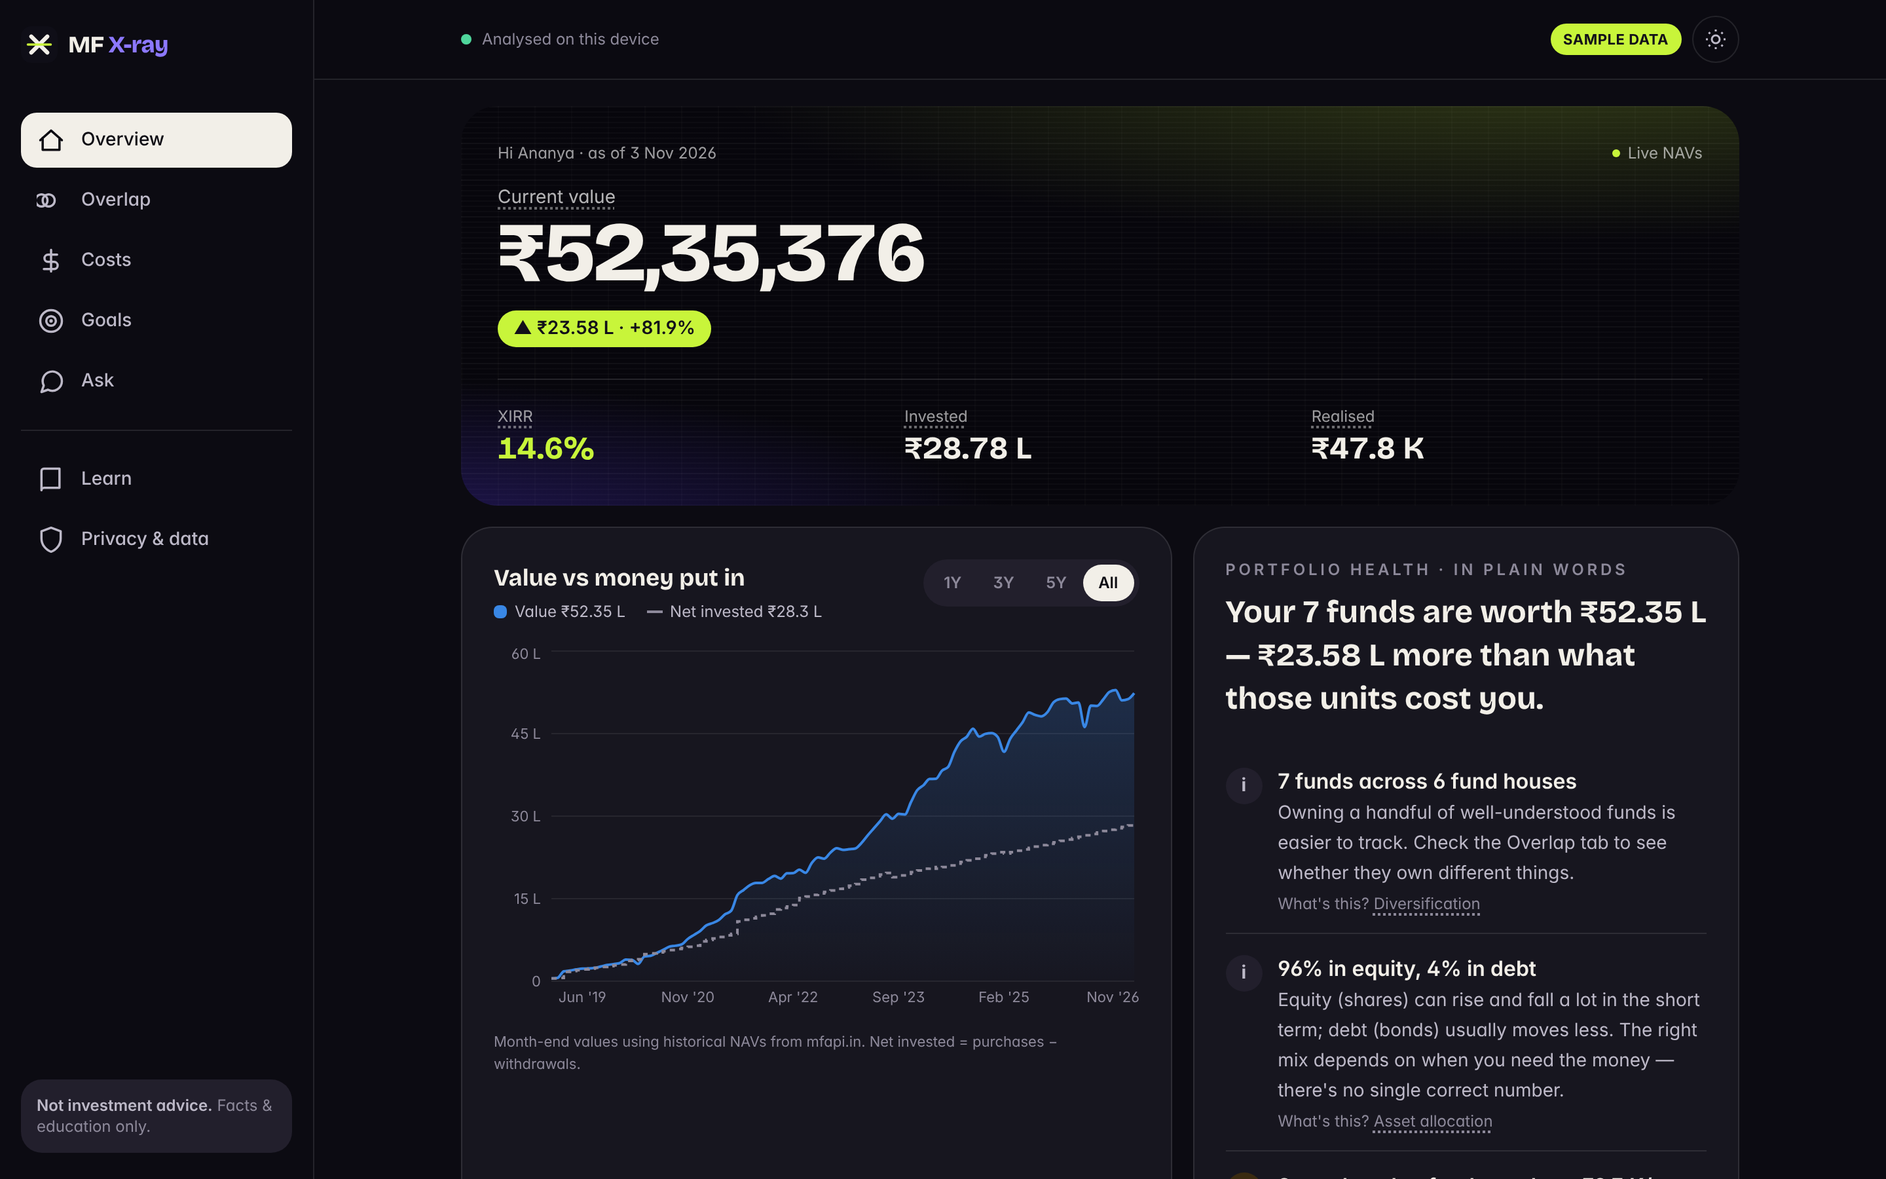
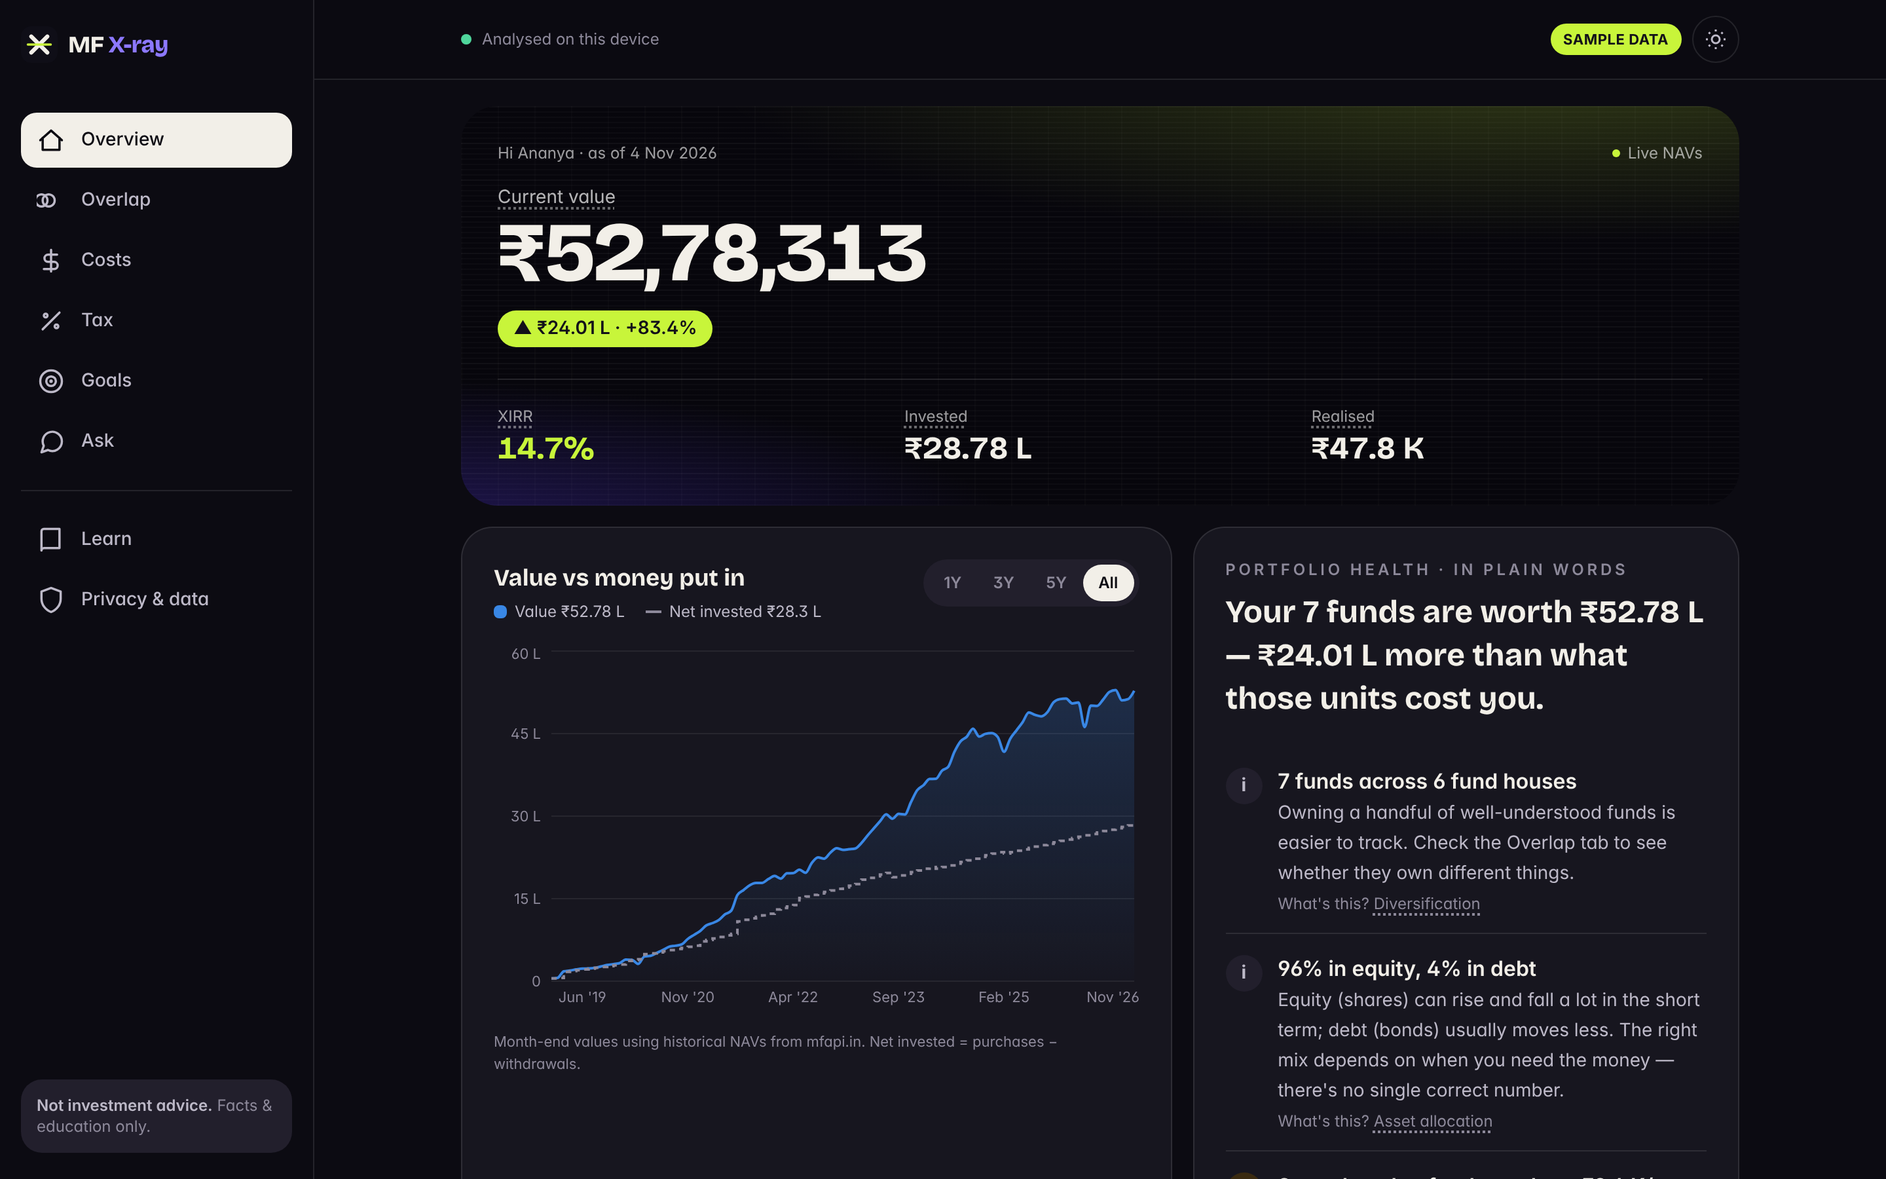
Update docs and screenshots for overlap, tax, parser and sharing work

diff --git a/developer.md b/developer.md
@@ -42,7 +42,13 @@ Sandbox-only: Node's `fetch` ignores `HTTPS_PROXY` by default. In environments t
 | `npm run sample:generate` | Regenerates `public/sample/sample-cas.pdf` + `tests/fixtures/sample-cas.expected.json` (needs network for mfapi.in NAVs; caches them in `scripts/.nav-cache.json`, git-ignored) |
 | `npm run data:schemes` | Rebuilds `public/data/schemes.json` from AMFI's NAVAll.txt (ISIN → AMFI code, category, AMC) |
 | `npm run data:ter` | Rebuilds `public/data/ter.json` from AMFI's TER disclosure API (last month + current month; ~30 min because the API is paginated daily rows) |
+| `npm run data:holdings` | Discovers + downloads AMC monthly portfolio disclosures and rebuilds `public/data/holdings.json` (needs Playwright + Chromium; ~10 min). Downloads cached in `scripts/.holdings-cache/` (git-ignored) |
+| `npm run data:holdings:offline` | Rebuilds the holdings snapshot from the local download cache only |
 | `node scripts/render-icons.cjs` | Renders PWA PNG icons with Playwright |
+
+**Monthly refresh:** `.github/workflows/refresh-data.yml` runs on the 12th of each month (and on demand). It rebuilds
+the scheme master, holdings snapshot and TER, runs the tests, and opens a PR on `data/monthly-refresh`. It needs
+Actions to be allowed to create PRs (Settings → Actions → General → "Allow GitHub Actions to create and approve pull requests").
 
 ## Architecture
 
@@ -60,16 +66,22 @@ src/
     finance/              xirr, portfolio (FIFO cost, XIRR, allocation), costs, goals, timeline, categorize
     data/                 schemeIndex (AMFI master), ter (AMFI TER + estimates), nav (mfapi.in)
     ai/                   anonymize (the only thing that leaves the device), prompt, providers, localAnswer
-    overlap.ts            pairwise overlap + look-through exposure
+    cas/diagnostic.ts     redaction + anonymised "didn't parse right?" report
+    finance/lots.ts       FIFO lot engine (acquisition dates, disposals, merger carry-over)
+    finance/capitalGains.ts  STCG/LTCG estimate (rules table, grandfathering, FY summary)
+    holdings/             snapshot types + lookup (by plan ISIN, then name key)
+    overlap.ts            pairwise overlap, verdicts, look-through stocks + sectors (ISIN-keyed)
+    shareCard.ts          anonymised share-card data + canvas drawing
     health.ts             plain-language facts
     glossary.ts, learn.ts beginner content
-  data/holdings.json      approximate top-holdings snapshot (see Decisions)
+  data/holdings-fallback.json  approximate top-holdings list, used only when no disclosure covers a fund
   store/store.ts          zustand store, optional localStorage persistence
 public/
-  data/schemes.json, ter.json   bundled public data snapshots
+  data/schemes.json, ter.json, holdings.json   bundled public data snapshots
   sample/sample-cas.pdf         synthetic CAS (password: mfxray)
   sw.js                          service worker (offline shell + cached NAVs)
 scripts/                         data/sample/icon generators
+  holdings/                      AMC disclosure ingestion: sources.ts (per-AMC discovery), parse-disclosure.ts (generic SEBI-format parser), build-snapshot.ts, ingest.ts
 tests/                           vitest
 ```
 
@@ -106,7 +118,8 @@ follow the entity, not its rank.
 - **Current value** uses the latest NAV from mfapi.in when newer than the statement; otherwise the statement's NAV. The UI shows which.
 - **Scheme master**: AMFI NAVAll.txt snapshot bundled (`public/data/schemes.json`, ~190 KB gz, lazy-loaded) for ISIN → AMFI code/category/AMC and to find each regular plan's direct twin.
 - **Expense ratios**: real per-scheme regular/direct TERs from AMFI's public TER disclosure API, bundled as a snapshot. Category-median estimates are used only when a scheme is missing, and are labelled “est”.
-- **Fund holdings for overlap**: no free, common API exists for AMC monthly portfolio disclosures (each AMC publishes its own Excel/PDF in different formats). v1 ships a hand-compiled, **approximate top-holdings snapshot** for ~20 popular funds plus approximate NIFTY 50 / SENSEX / NIFTY NEXT 50 weights for index funds, clearly labelled in the UI as not live. Funds without data fall back to a same-category note. See Roadmap.
+- **Fund holdings for overlap (v2)**: ingested from AMC **monthly portfolio disclosures** (the Excel files SEBI requires each AMC to publish). One generic parser handles every AMC because SEBI prescribes the columns: it finds the header row (ISIN + "% to NAV/Net Assets"), tracks equity/foreign/debt/derivative sections, auto-detects fraction vs percent weights, sums duplicate lines and uses the ISIN security-type code (positions 8–9: `01` = equity share) to separate shares from bonds. Derivative legs are excluded so hedged positions aren't double counted. Stock identity = ISIN. Snapshot (Sep 2026): **395 schemes from 9 AMCs** — SBI, Nippon India, Aditya Birla Sun Life, Mirae Asset, DSP, Tata, PPFAS, Motilal Oswal, Invesco — with 390 mapped to AMFI plan ISINs (≈108 KB gzipped, lazy-loaded). Arbitrage funds and schemes with < 35% equity are excluded. Lookup order: user's plan ISIN → name key → **index proxy** (an index fund whose AMC isn't covered borrows the disclosed portfolio of a sibling fund tracking the same index) → **approximate** hand-compiled top holdings (names mapped onto ISINs where possible). The UI always shows the source and month per fund.
+- **Overlap verdicts**: Σ min(weightA, weightB) over common ISINs; ≥60% "nearly the same portfolio", ≥35% "a large shared core", ≥15% "some shared stocks", else "very different".
 - **Regular-plan money lost (past)**: replays the user's actual purchase dates/amounts on the direct plan's real NAV history (mfapi.in) and compares today's values; falls back to average balance × TER gap × years when history is unavailable (labelled estimate).
 - **Benchmark reference**: the dashboard replays the user's exact cash flows on UTI Nifty 50 Index Fund (direct) historical NAVs and shows value + XIRR side by side. Framed as a past-only yardstick, not a recommendation.
 - **Projections** (fee drag, goals) use a growth rate the **user chooses** (slider), always labelled “your assumption, not a prediction”. Goals default to 0%; the cost slider defaults to 10% (editable).
@@ -116,13 +129,22 @@ follow the entity, not its rank.
 - **NAV fetching**: browser calls mfapi.in directly (CORS-enabled). Some cached responses lack CORS headers, so a stateless same-origin proxy (`/api/nav/[code]`, public scheme code only) is used as fallback.
 - **Sample data**: fully synthetic investor (“Ananya Rao”, PAN `ABCDE1234F`, fake folios, fake ARN-000000, example.com email) holding 8 real schemes with real ISINs and real historical NAVs, so live features work. Password `mfxray`. ~700 transactions, SIPs, lump sums, stamp duty, STT, partial and full redemptions, two regular plans.
 - **PWA**: hand-written service worker (no plugin) — offline app shell, cache-first for static assets and bundled data, network-first with cache fallback for NAVs. Only registered in production.
+- **Parser robustness (v2)**: classification order fixed so SWP → redemption, STP → switch, mergers → `MERGER_IN/OUT` (non-cash; cost basis and acquisition dates carried across schemes in the same folio), bonus → zero-cost lot, segregated/side-pocket → zero-cost lot, purchase rows with negative units → reversal. Dated lines can never become scheme headers. Missing valuation lines fall back to the last transaction NAV with a warning. Fixtures in `tests/fixtures/cas/` (CAMS-style edge cases, KFintech-style tab-less layout with a merger, noisy page headers/footers).
+- **Diagnostic report**: raw statement text is never retained. Right after extraction the lines are redacted (personal block, PAN, e-mail, phone, folio, nominee, all digits → 9, dates → 99-Mmm-9999) and only that form is kept in memory (not persisted). Fund names are masked unless the user opts in. The user copies/downloads it; nothing is sent. A leak check warns if the (editable) text still looks like it contains an identifier.
+- **Capital gains**: FIFO lots; rules table in `capitalGains.ts` (`RULES`). Equity-oriented (incl. index, ELSS, arbitrage, aggressive hybrid, balanced advantage, equity savings): LT > 12 months, 12.5% above ₹1.25 L/FY, ST 20%. Debt acquired ≥ 1 Apr 2023: slab. Debt acquired earlier, gold/silver, international FoFs, 35–65% equity hybrids: LT > 24 months at 12.5%, else slab. Grandfathering for equity lots ≤ 31 Jan 2018 using the 31-Jan-2018 NAV from mfapi.in. 4% cess included; surcharge and cross-bucket set-off not modelled. Tax estimates are shown only for FYs fully under the post-23-Jul-2024 rules. Rules verified 5 Nov 2026: Budget 2026 left MF capital-gains rates unchanged; the Income-tax Act, 2025 (from 1 Apr 2026) renumbered sections without changing rates. Slab rate is user-chosen (default 30%).
+- **Share card**: percentages only by default (value is opt-in, XIRR toggle); drawn on a canvas in the browser; shared via the Web Share API with download fallback.
+- **First-run tour**: 5-step bottom sheet on the first dashboard visit (flag in localStorage), replayable from Learn.
 - **Fonts**: Bricolage Grotesque (display), Instrument Sans (body), JetBrains Mono via `next/font` (self-hosted at build).
 
 ## Blockers & workarounds
 
 | What failed | What I tried | Workaround in v1 | What you need to do |
 |---|---|---|---|
-| Free source for scheme holdings (overlap) | Looked for AMFI/AMC APIs; AMC disclosures are per-AMC Excel files with no common schema | Approximate top-holdings snapshot (`src/data/holdings.json`), labelled in UI; same-category fallback | Optional: build an ingestion job per AMC (see Roadmap) or plug in a licensed data source |
+| AMC disclosures for HDFC, Edelweiss | Direct fetch + headless browser | "Access Denied" (Akamai bot protection). Not bypassed. Their funds use index proxy / approximate fallback, labelled | Optional: download those files manually into `scripts/.holdings-cache/` and add a `Source` entry, or ask the AMC for a feed |
+| ICICI Prudential disclosures | Headless browser | Host unreachable under this build environment's network policy | Try `npm run data:holdings` from a normal machine/CI after adding an ICICI `Source` entry |
+| Kotak disclosures | Their folder-list API (used by captn3m0/mf-portfolio) | Behind Radware bot protection. Not bypassed | Same as above |
+| Axis, UTI, Franklin | Rendered download pages | No month-end portfolio files discoverable automatically (UTI/Franklin publish per fund / via CMS) | Add per-fund URL patterns in `scripts/holdings/sources.ts` |
+| Mirae page lists only 10 latest files | Pagination not exposed | Known scheme codes are probed directly (`probe()`); Mirae Large Cap's code wasn't found, so it uses the approximate fallback | Add its code to the probe list |
 | AMFI TER API is slow (one page ≈ 10 s, 650 pages for a month) | First run hit the 30-min background limit | Script defaults to last month + current month with concurrency 6; current month alone is ~1 min but some AMCs file late | Re-run `npm run data:ter` monthly (or in a scheduled GitHub Action) |
 | mfapi.in sometimes omits CORS headers | — | Same-origin stateless proxy fallback `/api/nav/[code]`; statement NAVs used if both fail | None |
 | Default LLM model names were retired (`gemini-2.5-flash`, `llama-3.3-70b-versatile`) / Gemini daily free quota hit | Listed available models | Defaults: `gemini-flash-lite-latest`, `openai/gpt-oss-120b`; provider fallback chain; offline answers if all fail | Override with `GEMINI_MODEL`/`GROQ_MODEL` if these change |
@@ -132,34 +154,30 @@ follow the entity, not its rank.
 
 - Only CAMS/KFintech **detailed** CAS is supported; NSDL/CDSL CAS and demat-held units aren't parsed.
 - Real-world CAS layouts vary; the parser has been validated against the synthetic sample and hand-written line fixtures, not a corpus of real statements (no real data was used, by design). If a statement fails to reconcile, the UI shows a warning with the scheme name.
-- Holdings snapshot is approximate and limited to ~20 funds; overlap uses top holdings only, so true overlap may be higher.
+- Holdings come from 9 AMCs; funds from other AMCs use an index proxy (index funds) or an approximate top-holdings list (labelled). Disclosures are month-end and published ~10 days later.
+- Per-fund XIRR is unavailable for a scheme created by a merger (its cash flows live in the old scheme); portfolio XIRR is unaffected.
 - TER for a scheme whose AMC hasn't filed in the snapshot months falls back to a category estimate (“est”).
 - Value-over-time chart is month-end; the final point uses the latest NAV.
-- Tax (capital gains, exit loads) is not modelled.
+- Capital-gains view is an estimate: no surcharge, loss set-off/carry-forward, exit loads, demat units outside the CAS, or official tax classification lookup (inferred from category).
 
 ## Progress
 
-**Done**
-- CAS PDF parsing in-browser (password-protected), parser tests on the synthetic sample + text fixtures
-- Portfolio analytics: value, FIFO cost, gains, realised gains, XIRR overall + per fund, allocation (asset class / category / AMC)
-- Live NAV refresh + value-vs-invested chart (mfapi.in, with proxy + statement fallbacks)
-- Overlap matrix, common stocks, look-through exposure (approximate holdings snapshot)
-- Cost check: real AMFI TERs, fee drag 5/10/20 yrs at user assumption, regular-plan detection, past money lost (actual direct NAV replay)
-- Goals with progress rings and user-chosen assumptions; example goals for sample data
-- Beginner layer: tap-to-explain terms everywhere, health summary, learn cards + glossary
-- AI chat (Gemini/Groq with fallback, offline mode), anonymisation + PII tests, “see exactly what is sent”
-- Privacy page with Remember toggle + Delete my data; PWA manifest, icons, service worker
-- Light/dark themes, mobile bottom nav, desktop sidebar
-- Benchmark reference card (same money in a Nifty 50 index fund, historical)
-- CI workflow (typecheck, lint, tests, build)
-- README with real screenshots; developer.md
-- PR opened: https://github.com/SarthakJain29/MF-x-ray/pull/1
+**Done (v1)** — CAS parsing in-browser, dashboard/XIRR/allocation, costs & TER, goals, beginner layer, AI chat with anonymisation, privacy controls, PWA, CI. PR: https://github.com/SarthakJain29/MF-x-ray/pull/1
+
+**Done (v2, this round)**
+- AMC monthly-disclosure ingestion: 9 AMCs, 395 schemes, ISIN-keyed, monthly GitHub Action, "data as of" in UI, labelled fallbacks
+- Overlap hero: biggest-overlap verdict, heat-map with details, real top-10 look-through stocks (fund-coloured), sector exposure, per-fund source badges, dashboard teaser
+- Parser robustness: STP/SWP/merger/bonus/segregation/NFO/reversal/zero-balance/multi-PAN/KFintech fixtures; shared FIFO lot engine
+- "Statement didn't parse right?" anonymised diagnostic report (redaction tested against sample + fixtures)
+- Capital gains estimate page (/app/tax) with rules, grandfathering, FY summary, upcoming long-term dates, IDCW income
+- Share card image, first-run tour, error/404/empty states
+- Tests: 99 (vitest)
 
 **In progress**
-- Nothing in flight. `public/data/ter.json` holds Oct + Nov 2026 AMFI TERs (2,178 schemes); `schemes.json` is from 4 Nov 2026.
+- Nothing in flight.
 
 **Next**
-- Automated AMC holdings ingestion (top AMCs' monthly Excel) to replace the snapshot
+- More AMCs (HDFC/ICICI/Kotak/Axis/UTI via manual or partner feeds); Mirae Large Cap code
 - NSDL/CDSL CAS support
-- Capital-gains view (STCG/LTCG with grandfathering)
-- Scheduled GitHub Action to refresh `schemes.json` / `ter.json` monthly
+- Capital-gains: loss set-off across buckets, exit loads
+- Automated visual regression screenshots in CI

diff --git a/README.md b/README.md
@@ -15,8 +15,9 @@ overlapping funds and goal progress — explained in plain language, computed en
   <img src="docs/screenshots/mobile-dashboard.png" width="23%" alt="Dashboard" />
   <img src="docs/screenshots/mobile-overlap.png" width="23%" alt="Fund overlap" />
   <img src="docs/screenshots/mobile-costs.png" width="23%" alt="Cost check" />
-  <img src="docs/screenshots/mobile-ask.png" width="23%" alt="Ask your portfolio" />
+  <img src="docs/screenshots/mobile-tax.png" width="23%" alt="Capital gains estimate" />
 </p>
+<p align="center"><img src="docs/screenshots/share-card.png" width="38%" alt="Shareable anonymised X-ray card" /></p>
 
 <p align="center"><img src="docs/screenshots/desktop-dashboard.png" width="92%" alt="Desktop dashboard, dark theme" /></p>
 
@@ -37,7 +38,10 @@ and optional AI chat receives only anonymous totals — never PAN, name, email o
 | | |
 |---|---|
 | **Portfolio dashboard** | Current value (marked to the latest NAV), FIFO cost, unrealised & realised gains, **true XIRR** overall and per fund, value-vs-invested chart, allocation by asset class / category / fund house, and a past-only reference: the same cash flows replayed on a Nifty 50 index fund |
-| **Fund overlap** | Pairwise overlap heat-map, common stocks per pair, look-through exposure (“you own ₹4.2 L of HDFC Bank across 6 funds”) |
+| **Fund overlap** | Built on **real month-end portfolios** from fund-house disclosures (395 schemes, 9 AMCs, matched by ISIN): “these 2 funds are 51% the same”, heat-map, your real top 10 stocks and sector exposure across all funds, with the data month and source shown for every fund |
+| **Capital gains estimate** | FIFO-based realised and unrealised STCG/LTCG per fund under current Indian MF tax rules (equity vs debt, ₹1.25 L exemption, grandfathering), clearly labelled as an estimate, not tax advice |
+| **Share card** | An anonymised image of your X-ray — percentages only unless you opt in to amounts |
+| **Robust parsing** | Handles switches, STP/SWP, IDCW, mergers, segregated portfolios, multiple folios/PANs; a “didn't parse right?” flow creates a redacted diagnostic you choose whether to share |
 | **Cost check** | Real regular & direct TERs from AMFI, fee drag in rupees over 5/10/20 years at *your* assumption, regular-plan detection, and money already lost — computed by replaying your purchases on the direct plan's actual NAV history |
 | **Goal tracker** | Earmark funds (or a share of them) for goals; progress rings; monthly amount needed under a growth rate you choose |
 | **Beginner layer** | Every term is tappable for a plain-language explainer; a “portfolio health” summary of facts; 2-minute learn cards; searchable glossary |
@@ -57,8 +61,9 @@ the user picks, labelled as an assumption.
 - **pdf.js 5** for in-browser decryption & text extraction · custom CAS parser
 - **Recharts 3** with a CVD-validated categorical palette
 - **zustand** for state · hand-written service worker
-- **Vitest** — 39 tests covering CAS parsing (on the real sample PDF), XIRR, overlap, costs, goals, anonymisation
-- Data: **mfapi.in** (NAV history), **AMFI** NAVAll (scheme master) and TER disclosures (expense ratios)
+- **Vitest** — 99 tests covering CAS parsing (sample PDF + edge-case fixtures), XIRR, FIFO lots, capital gains, AMC disclosure parsing, overlap, redaction, anonymisation
+- **SheetJS + Playwright** (data scripts only) for the monthly AMC disclosure ingestion
+- Data: **mfapi.in** (NAV history), **AMFI** NAVAll (scheme master) and TER disclosures (expense ratios), **AMC monthly portfolio disclosures** (holdings)
 - LLMs behind a tiny provider interface: **Gemini** (`GEMINI_API_KEY`) or **Groq** (`GROQ_API_KEY`), offline fallback
 
 ## Architecture
@@ -72,7 +77,7 @@ flowchart LR
     Parser --> Engine["buildPortfolio()<br/>FIFO cost · XIRR · allocation"]
     Index[("schemes.json<br/>AMFI master")] --> Engine
     TER[("ter.json<br/>AMFI TERs")] --> Engine
-    Holdings[("holdings.json<br/>top holdings")] --> Overlap["overlapReport()"]
+    Holdings[("holdings.json<br/>AMC disclosures, by ISIN")] --> Overlap["overlapReport()"]
     Engine --> Overlap
     Engine --> UI["Dashboard · Overlap · Costs · Goals · Learn"]
     Overlap --> UI
@@ -111,9 +116,10 @@ Deploying (Vercel free tier), regenerating the sample/data snapshots, decisions 
 
 ## Roadmap
 
-- [ ] Automated monthly ingestion of AMC portfolio disclosures (replace the approximate holdings snapshot)
+- [x] Automated monthly ingestion of AMC portfolio disclosures
+- [ ] Cover HDFC, ICICI, Kotak, Axis, UTI disclosures
 - [ ] NSDL / CDSL depository CAS support
-- [ ] Capital-gains view (STCG/LTCG, grandfathering) — facts only
+- [x] Capital-gains estimate (STCG/LTCG, grandfathering)
 - [ ] Scheduled refresh of AMFI scheme & TER snapshots via GitHub Actions
 - [ ] Hindi and other Indian-language explainers
 
